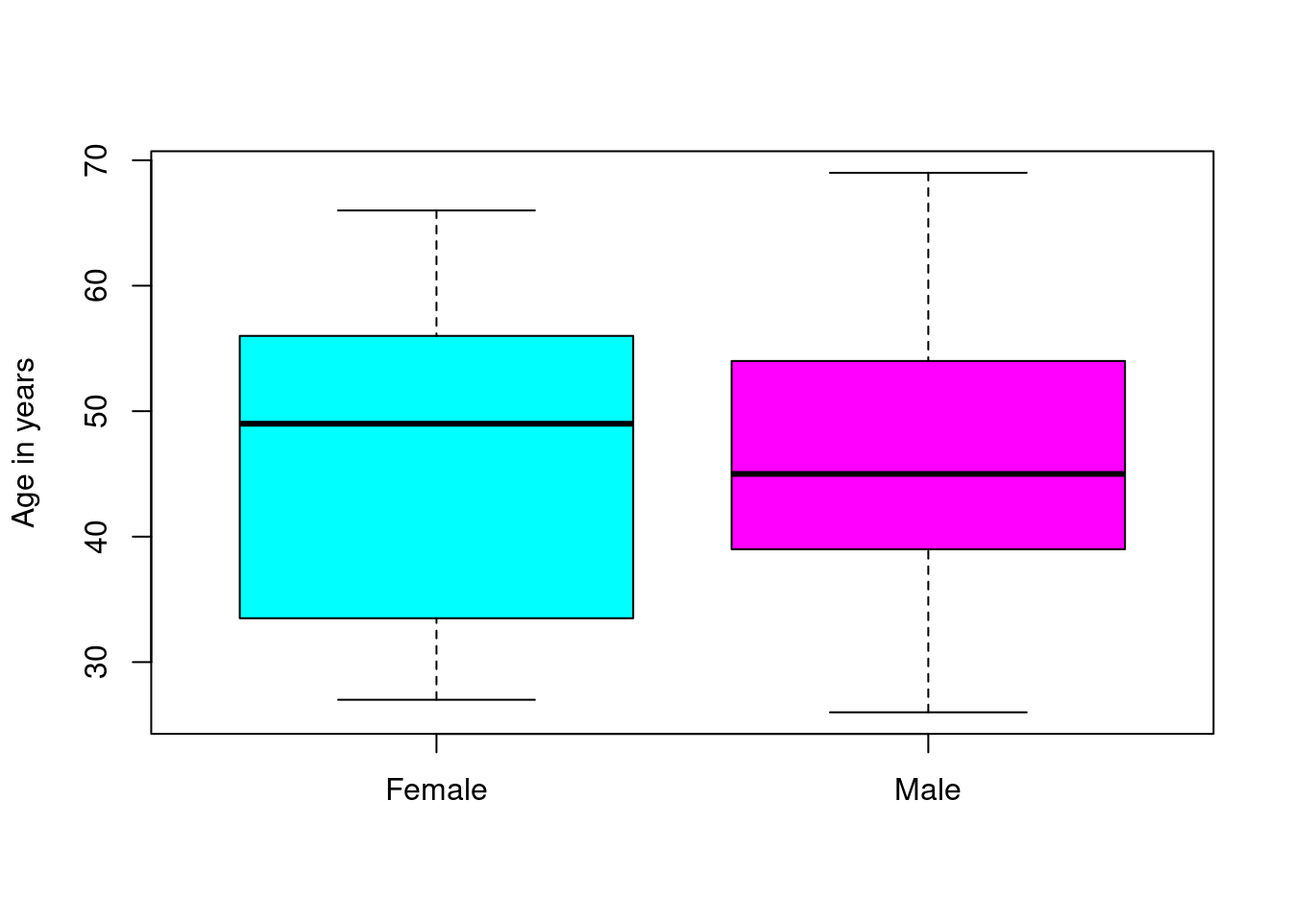
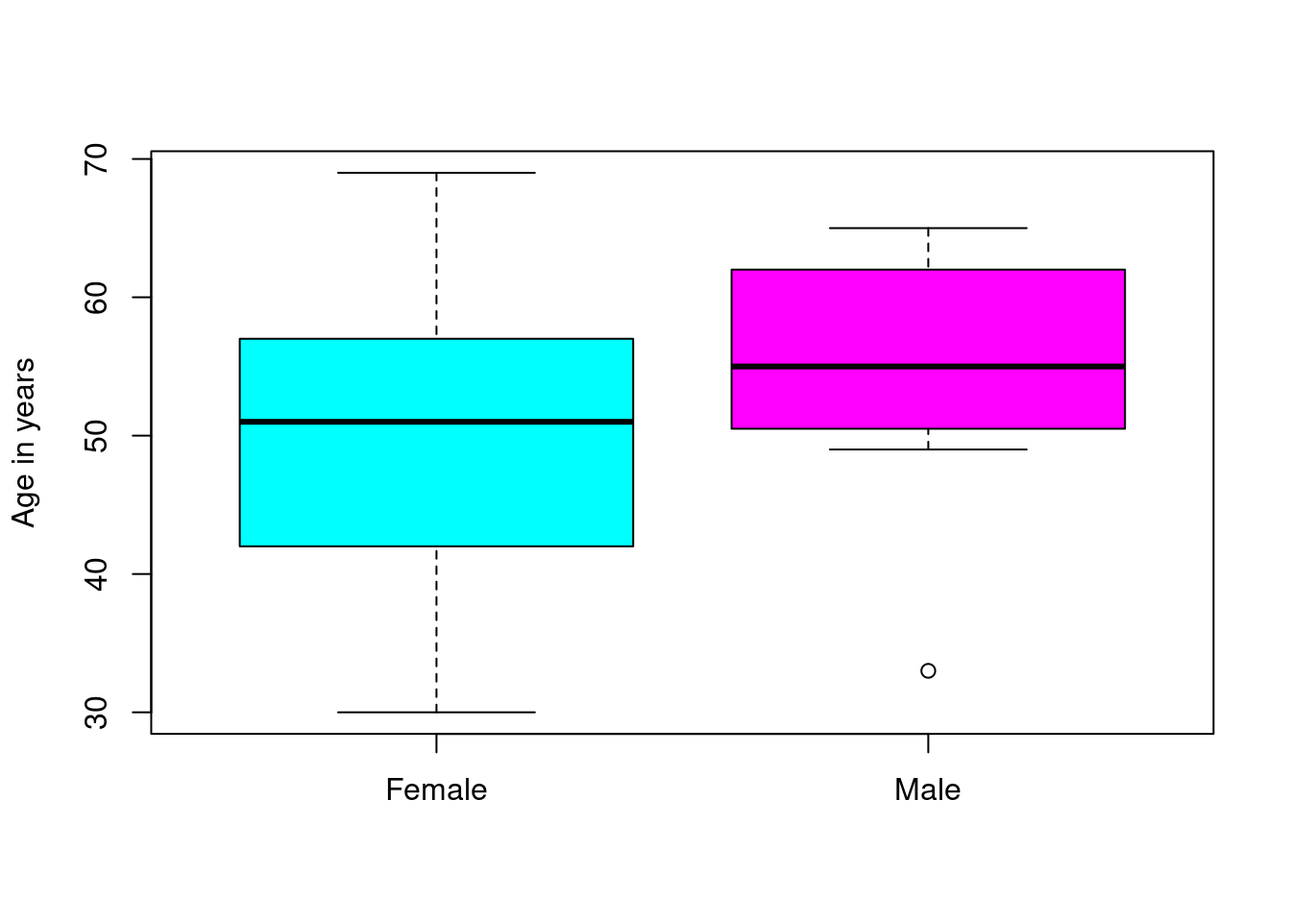
Rmd post update

diff --git a/content/post/2021-01-28-pxweb-kartalla/index.fi.html b/content/post/2021-01-28-pxweb-kartalla/index.fi.html
@@ -82,43 +82,52 @@ code span.wa { color: #8f5902; font-weight: bold; font-style: italic; } /* Warni
 
 <p>Kuulen usein vaikeuksista esittää Tilastokeskuksen <a href="https://pxnet2.stat.fi/PXWeb/pxweb/fi/StatFin/">PxWeb</a>-rajapinnan kautta jaettavia tilastoaineistoja kartalla. <a href="https://ropengov.github.io/">ropengov</a>-projektissa on kehitetty R-kielen työkaluja sekä <a href="https://cran.r-project.org/web/packages/pxweb/index.html">pxweb</a>-rajapinnan hyödyntämiseen että Tilastokeskuksen <a href="https://www.stat.fi/org/avoindata/paikkatietoaineistot.html">paikkatietorajapinnan</a> hyödyntämiseen (<a href="https://ropengov.github.io/geofi/">geofi</a>).</p>
 <p>Tässä esimerkissä näytetään miten teet karttoja R-ohjelmalla PxWeb-rajapinnan datoista sekä kunta- että postinumeroaluepohjaisten aluejakojen mukaisesti.</p>
+<p>Aluksi ladataan paketit sekä datojen hakemiseen, käsittelyyn että visualisointiin.</p>
+<div class="sourceCode" id="cb1"><pre class="sourceCode r"><code class="sourceCode r"><span id="cb1-1"><a href="#cb1-1" aria-hidden="true" tabindex="-1"></a><span class="co"># datat</span></span>
+<span id="cb1-2"><a href="#cb1-2" aria-hidden="true" tabindex="-1"></a><span class="fu">library</span>(pxweb) <span class="co"># Tilastokeskuksen pxweb-rajapinta</span></span>
+<span id="cb1-3"><a href="#cb1-3" aria-hidden="true" tabindex="-1"></a><span class="fu">library</span>(geofi) <span class="co"># Tilastokeskuksen wfs-rajapinta</span></span>
+<span id="cb1-4"><a href="#cb1-4" aria-hidden="true" tabindex="-1"></a><span class="co"># käsittely</span></span>
+<span id="cb1-5"><a href="#cb1-5" aria-hidden="true" tabindex="-1"></a><span class="fu">library</span>(dplyr) </span>
+<span id="cb1-6"><a href="#cb1-6" aria-hidden="true" tabindex="-1"></a><span class="fu">library</span>(tidyr)</span>
+<span id="cb1-7"><a href="#cb1-7" aria-hidden="true" tabindex="-1"></a><span class="co"># visualisointi</span></span>
+<span id="cb1-8"><a href="#cb1-8" aria-hidden="true" tabindex="-1"></a><span class="fu">library</span>(ggplot2)</span></code></pre></div>
 <div id="datan-hakeminen-tilastokeskuksen-pxweb-rajapinnasta" class="section level2">
 <h2>Datan hakeminen Tilastokeskuksen PxWeb-rajapinnasta</h2>
 </div>
 <div id="haetaan-kuntatason-taajama-aste-vuoden-2020-aluejaolla" class="section level1">
 <h1>Haetaan kuntatason taajama-aste vuoden 2020 aluejaolla</h1>
-<div class="sourceCode" id="cb1"><pre class="sourceCode r"><code class="sourceCode r"><span id="cb1-1"><a href="#cb1-1" aria-hidden="true" tabindex="-1"></a><span class="fu">library</span>(geofi)</span>
-<span id="cb1-2"><a href="#cb1-2" aria-hidden="true" tabindex="-1"></a><span class="fu">library</span>(dplyr)</span>
-<span id="cb1-3"><a href="#cb1-3" aria-hidden="true" tabindex="-1"></a><span class="fu">library</span>(tidyr)</span>
-<span id="cb1-4"><a href="#cb1-4" aria-hidden="true" tabindex="-1"></a></span>
-<span id="cb1-5"><a href="#cb1-5" aria-hidden="true" tabindex="-1"></a>municipalities17 <span class="ot">&lt;-</span> <span class="fu">get_municipalities</span>(<span class="at">year =</span> <span class="dv">2017</span>)</span>
-<span id="cb1-6"><a href="#cb1-6" aria-hidden="true" tabindex="-1"></a></span>
-<span id="cb1-7"><a href="#cb1-7" aria-hidden="true" tabindex="-1"></a><span class="co"># pull municipality data from Statistics Finland</span></span>
-<span id="cb1-8"><a href="#cb1-8" aria-hidden="true" tabindex="-1"></a><span class="fu">library</span>(pxweb)</span>
-<span id="cb1-9"><a href="#cb1-9" aria-hidden="true" tabindex="-1"></a>pxweb_query_list <span class="ot">&lt;-</span></span>
-<span id="cb1-10"><a href="#cb1-10" aria-hidden="true" tabindex="-1"></a>  <span class="fu">list</span>(<span class="st">&quot;Alue 2019&quot;</span><span class="ot">=</span><span class="fu">c</span>(<span class="st">&quot;*&quot;</span>),</span>
-<span id="cb1-11"><a href="#cb1-11" aria-hidden="true" tabindex="-1"></a>       <span class="st">&quot;Tiedot&quot;</span><span class="ot">=</span><span class="fu">c</span>(<span class="st">&quot;M408&quot;</span>,<span class="st">&quot;M411&quot;</span>,<span class="st">&quot;M476&quot;</span>,<span class="st">&quot;M391&quot;</span>,<span class="st">&quot;M421&quot;</span>,<span class="st">&quot;M478&quot;</span>,<span class="st">&quot;M404&quot;</span>,<span class="st">&quot;M410&quot;</span>,<span class="st">&quot;M303&quot;</span>,<span class="st">&quot;M297&quot;</span>,<span class="st">&quot;M302&quot;</span>,<span class="st">&quot;M44&quot;</span>,<span class="st">&quot;M62&quot;</span>,<span class="st">&quot;M70&quot;</span>,<span class="st">&quot;M488&quot;</span>,<span class="st">&quot;M486&quot;</span>,<span class="st">&quot;M137&quot;</span>,<span class="st">&quot;M140&quot;</span>,<span class="st">&quot;M130&quot;</span>,<span class="st">&quot;M162&quot;</span>,<span class="st">&quot;M78&quot;</span>,<span class="st">&quot;M485&quot;</span>,<span class="st">&quot;M152&quot;</span>,<span class="st">&quot;M72&quot;</span>,<span class="st">&quot;M84&quot;</span>,<span class="st">&quot;M106&quot;</span>,<span class="st">&quot;M151&quot;</span>,<span class="st">&quot;M499&quot;</span>,<span class="st">&quot;M496&quot;</span>,<span class="st">&quot;M495&quot;</span>,<span class="st">&quot;M497&quot;</span>,<span class="st">&quot;M498&quot;</span>),</span>
-<span id="cb1-12"><a href="#cb1-12" aria-hidden="true" tabindex="-1"></a>       <span class="st">&quot;Vuosi&quot;</span><span class="ot">=</span><span class="fu">c</span>(<span class="st">&quot;2017&quot;</span>))</span>
-<span id="cb1-13"><a href="#cb1-13" aria-hidden="true" tabindex="-1"></a></span>
-<span id="cb1-14"><a href="#cb1-14" aria-hidden="true" tabindex="-1"></a>px_data <span class="ot">&lt;-</span></span>
-<span id="cb1-15"><a href="#cb1-15" aria-hidden="true" tabindex="-1"></a>  <span class="fu">pxweb_get</span>(<span class="at">url =</span> <span class="st">&quot;http://pxnet2.stat.fi/PXWeb/api/v1/fi/Kuntien_avainluvut/2019/kuntien_avainluvut_2019_aikasarja.px&quot;</span>,</span>
-<span id="cb1-16"><a href="#cb1-16" aria-hidden="true" tabindex="-1"></a>            <span class="at">query =</span> pxweb_query_list)</span>
-<span id="cb1-17"><a href="#cb1-17" aria-hidden="true" tabindex="-1"></a></span>
-<span id="cb1-18"><a href="#cb1-18" aria-hidden="true" tabindex="-1"></a><span class="co"># Convert to data.frame</span></span>
-<span id="cb1-19"><a href="#cb1-19" aria-hidden="true" tabindex="-1"></a>tk_data <span class="ot">&lt;-</span> <span class="fu">as.data.frame</span>(px_data, <span class="at">column.name.type =</span> <span class="st">&quot;text&quot;</span>, <span class="at">variable.value.type =</span> <span class="st">&quot;text&quot;</span>)</span>
-<span id="cb1-20"><a href="#cb1-20" aria-hidden="true" tabindex="-1"></a>tk_data2 <span class="ot">&lt;-</span> tk_data <span class="sc">%&gt;%</span></span>
-<span id="cb1-21"><a href="#cb1-21" aria-hidden="true" tabindex="-1"></a>  <span class="fu">rename</span>(<span class="at">name =</span> <span class="st">`</span><span class="at">Alue 2019</span><span class="st">`</span>) <span class="sc">%&gt;%</span></span>
-<span id="cb1-22"><a href="#cb1-22" aria-hidden="true" tabindex="-1"></a>  <span class="fu">mutate</span>(<span class="at">name =</span> <span class="fu">as.character</span>(name),</span>
-<span id="cb1-23"><a href="#cb1-23" aria-hidden="true" tabindex="-1"></a>         <span class="co"># Paste Tiedot and Vuosi</span></span>
-<span id="cb1-24"><a href="#cb1-24" aria-hidden="true" tabindex="-1"></a>         <span class="at">Tiedot =</span> <span class="fu">paste</span>(Tiedot, Vuosi)) <span class="sc">%&gt;%</span></span>
-<span id="cb1-25"><a href="#cb1-25" aria-hidden="true" tabindex="-1"></a>  <span class="fu">select</span>(<span class="sc">-</span>Vuosi) <span class="sc">%&gt;%</span></span>
-<span id="cb1-26"><a href="#cb1-26" aria-hidden="true" tabindex="-1"></a>  <span class="fu">spread</span>(Tiedot, <span class="st">`</span><span class="at">Kuntien avainluvut</span><span class="st">`</span>) <span class="sc">%&gt;%</span></span>
-<span id="cb1-27"><a href="#cb1-27" aria-hidden="true" tabindex="-1"></a>  <span class="fu">as_tibble</span>()</span>
-<span id="cb1-28"><a href="#cb1-28" aria-hidden="true" tabindex="-1"></a>tk_data3 <span class="ot">&lt;-</span> janitor<span class="sc">::</span><span class="fu">clean_names</span>(tk_data2)</span>
-<span id="cb1-29"><a href="#cb1-29" aria-hidden="true" tabindex="-1"></a></span>
-<span id="cb1-30"><a href="#cb1-30" aria-hidden="true" tabindex="-1"></a><span class="co"># Join with Statistics Finland attribute data</span></span>
-<span id="cb1-31"><a href="#cb1-31" aria-hidden="true" tabindex="-1"></a>dat <span class="ot">&lt;-</span> <span class="fu">left_join</span>(municipalities17, tk_data3)</span>
-<span id="cb1-32"><a href="#cb1-32" aria-hidden="true" tabindex="-1"></a>dat[<span class="dv">1</span><span class="sc">:</span><span class="dv">10</span>,<span class="dv">1</span><span class="sc">:</span><span class="dv">10</span>]</span></code></pre></div>
+<div class="sourceCode" id="cb2"><pre class="sourceCode r"><code class="sourceCode r"><span id="cb2-1"><a href="#cb2-1" aria-hidden="true" tabindex="-1"></a><span class="fu">library</span>(geofi)</span>
+<span id="cb2-2"><a href="#cb2-2" aria-hidden="true" tabindex="-1"></a><span class="fu">library</span>(dplyr)</span>
+<span id="cb2-3"><a href="#cb2-3" aria-hidden="true" tabindex="-1"></a><span class="fu">library</span>(tidyr)</span>
+<span id="cb2-4"><a href="#cb2-4" aria-hidden="true" tabindex="-1"></a></span>
+<span id="cb2-5"><a href="#cb2-5" aria-hidden="true" tabindex="-1"></a>municipalities17 <span class="ot">&lt;-</span> <span class="fu">get_municipalities</span>(<span class="at">year =</span> <span class="dv">2017</span>)</span>
+<span id="cb2-6"><a href="#cb2-6" aria-hidden="true" tabindex="-1"></a></span>
+<span id="cb2-7"><a href="#cb2-7" aria-hidden="true" tabindex="-1"></a><span class="co"># pull municipality data from Statistics Finland</span></span>
+<span id="cb2-8"><a href="#cb2-8" aria-hidden="true" tabindex="-1"></a><span class="fu">library</span>(pxweb)</span>
+<span id="cb2-9"><a href="#cb2-9" aria-hidden="true" tabindex="-1"></a>pxweb_query_list <span class="ot">&lt;-</span></span>
+<span id="cb2-10"><a href="#cb2-10" aria-hidden="true" tabindex="-1"></a>  <span class="fu">list</span>(<span class="st">&quot;Alue 2019&quot;</span><span class="ot">=</span><span class="fu">c</span>(<span class="st">&quot;*&quot;</span>),</span>
+<span id="cb2-11"><a href="#cb2-11" aria-hidden="true" tabindex="-1"></a>       <span class="st">&quot;Tiedot&quot;</span><span class="ot">=</span><span class="fu">c</span>(<span class="st">&quot;M408&quot;</span>,<span class="st">&quot;M411&quot;</span>,<span class="st">&quot;M476&quot;</span>,<span class="st">&quot;M391&quot;</span>,<span class="st">&quot;M421&quot;</span>,<span class="st">&quot;M478&quot;</span>,<span class="st">&quot;M404&quot;</span>,<span class="st">&quot;M410&quot;</span>,<span class="st">&quot;M303&quot;</span>,<span class="st">&quot;M297&quot;</span>,<span class="st">&quot;M302&quot;</span>,<span class="st">&quot;M44&quot;</span>,<span class="st">&quot;M62&quot;</span>,<span class="st">&quot;M70&quot;</span>,<span class="st">&quot;M488&quot;</span>,<span class="st">&quot;M486&quot;</span>,<span class="st">&quot;M137&quot;</span>,<span class="st">&quot;M140&quot;</span>,<span class="st">&quot;M130&quot;</span>,<span class="st">&quot;M162&quot;</span>,<span class="st">&quot;M78&quot;</span>,<span class="st">&quot;M485&quot;</span>,<span class="st">&quot;M152&quot;</span>,<span class="st">&quot;M72&quot;</span>,<span class="st">&quot;M84&quot;</span>,<span class="st">&quot;M106&quot;</span>,<span class="st">&quot;M151&quot;</span>,<span class="st">&quot;M499&quot;</span>,<span class="st">&quot;M496&quot;</span>,<span class="st">&quot;M495&quot;</span>,<span class="st">&quot;M497&quot;</span>,<span class="st">&quot;M498&quot;</span>),</span>
+<span id="cb2-12"><a href="#cb2-12" aria-hidden="true" tabindex="-1"></a>       <span class="st">&quot;Vuosi&quot;</span><span class="ot">=</span><span class="fu">c</span>(<span class="st">&quot;2017&quot;</span>))</span>
+<span id="cb2-13"><a href="#cb2-13" aria-hidden="true" tabindex="-1"></a></span>
+<span id="cb2-14"><a href="#cb2-14" aria-hidden="true" tabindex="-1"></a>px_data <span class="ot">&lt;-</span></span>
+<span id="cb2-15"><a href="#cb2-15" aria-hidden="true" tabindex="-1"></a>  <span class="fu">pxweb_get</span>(<span class="at">url =</span> <span class="st">&quot;http://pxnet2.stat.fi/PXWeb/api/v1/fi/Kuntien_avainluvut/2019/kuntien_avainluvut_2019_aikasarja.px&quot;</span>,</span>
+<span id="cb2-16"><a href="#cb2-16" aria-hidden="true" tabindex="-1"></a>            <span class="at">query =</span> pxweb_query_list)</span>
+<span id="cb2-17"><a href="#cb2-17" aria-hidden="true" tabindex="-1"></a></span>
+<span id="cb2-18"><a href="#cb2-18" aria-hidden="true" tabindex="-1"></a><span class="co"># Convert to data.frame</span></span>
+<span id="cb2-19"><a href="#cb2-19" aria-hidden="true" tabindex="-1"></a>tk_data <span class="ot">&lt;-</span> <span class="fu">as.data.frame</span>(px_data, <span class="at">column.name.type =</span> <span class="st">&quot;text&quot;</span>, <span class="at">variable.value.type =</span> <span class="st">&quot;text&quot;</span>)</span>
+<span id="cb2-20"><a href="#cb2-20" aria-hidden="true" tabindex="-1"></a>tk_data2 <span class="ot">&lt;-</span> tk_data <span class="sc">%&gt;%</span></span>
+<span id="cb2-21"><a href="#cb2-21" aria-hidden="true" tabindex="-1"></a>  <span class="fu">rename</span>(<span class="at">name =</span> <span class="st">`</span><span class="at">Alue 2019</span><span class="st">`</span>) <span class="sc">%&gt;%</span></span>
+<span id="cb2-22"><a href="#cb2-22" aria-hidden="true" tabindex="-1"></a>  <span class="fu">mutate</span>(<span class="at">name =</span> <span class="fu">as.character</span>(name),</span>
+<span id="cb2-23"><a href="#cb2-23" aria-hidden="true" tabindex="-1"></a>         <span class="co"># Paste Tiedot and Vuosi</span></span>
+<span id="cb2-24"><a href="#cb2-24" aria-hidden="true" tabindex="-1"></a>         <span class="at">Tiedot =</span> <span class="fu">paste</span>(Tiedot, Vuosi)) <span class="sc">%&gt;%</span></span>
+<span id="cb2-25"><a href="#cb2-25" aria-hidden="true" tabindex="-1"></a>  <span class="fu">select</span>(<span class="sc">-</span>Vuosi) <span class="sc">%&gt;%</span></span>
+<span id="cb2-26"><a href="#cb2-26" aria-hidden="true" tabindex="-1"></a>  <span class="fu">spread</span>(Tiedot, <span class="st">`</span><span class="at">Kuntien avainluvut</span><span class="st">`</span>) <span class="sc">%&gt;%</span></span>
+<span id="cb2-27"><a href="#cb2-27" aria-hidden="true" tabindex="-1"></a>  <span class="fu">as_tibble</span>()</span>
+<span id="cb2-28"><a href="#cb2-28" aria-hidden="true" tabindex="-1"></a>tk_data3 <span class="ot">&lt;-</span> janitor<span class="sc">::</span><span class="fu">clean_names</span>(tk_data2)</span>
+<span id="cb2-29"><a href="#cb2-29" aria-hidden="true" tabindex="-1"></a></span>
+<span id="cb2-30"><a href="#cb2-30" aria-hidden="true" tabindex="-1"></a><span class="co"># Join with Statistics Finland attribute data</span></span>
+<span id="cb2-31"><a href="#cb2-31" aria-hidden="true" tabindex="-1"></a>dat <span class="ot">&lt;-</span> <span class="fu">left_join</span>(municipalities17, tk_data3)</span>
+<span id="cb2-32"><a href="#cb2-32" aria-hidden="true" tabindex="-1"></a>dat[<span class="dv">1</span><span class="sc">:</span><span class="dv">10</span>,<span class="dv">1</span><span class="sc">:</span><span class="dv">10</span>]</span></code></pre></div>
 <pre class="img-fluid"><code>## Simple feature collection with 10 features and 10 fields
 ## geometry type:  MULTIPOLYGON
 ## dimension:      XY
@@ -159,78 +168,78 @@ code span.wa { color: #8f5902; font-weight: bold; font-style: italic; } /* Warni
 ## 10                  3 MULTIPOLYGON (((598384.5 68...</code></pre>
 <div id="aggregating-municipality-level-data-using-internal-municipality_key-files" class="section level2">
 <h2>Aggregating municipality level data using internal municipality_key-files</h2>
-<div class="sourceCode" id="cb3"><pre class="sourceCode r"><code class="sourceCode r"><span id="cb3-1"><a href="#cb3-1" aria-hidden="true" tabindex="-1"></a><span class="co"># Lets aggregate at maakunta level using column mk_name</span></span>
-<span id="cb3-2"><a href="#cb3-2" aria-hidden="true" tabindex="-1"></a>mk_data <span class="ot">&lt;-</span> dat <span class="sc">%&gt;%</span> </span>
-<span id="cb3-3"><a href="#cb3-3" aria-hidden="true" tabindex="-1"></a>  <span class="fu">group_by</span>(maakunta_name_fi,maakunta_code) <span class="sc">%&gt;%</span> </span>
-<span id="cb3-4"><a href="#cb3-4" aria-hidden="true" tabindex="-1"></a>  <span class="co"># And compute population at maakunta level</span></span>
-<span id="cb3-5"><a href="#cb3-5" aria-hidden="true" tabindex="-1"></a>  <span class="fu">summarise</span>(<span class="at">vakiluku_2017 =</span> <span class="fu">sum</span>(vakiluku_2017))</span>
-<span id="cb3-6"><a href="#cb3-6" aria-hidden="true" tabindex="-1"></a></span>
-<span id="cb3-7"><a href="#cb3-7" aria-hidden="true" tabindex="-1"></a><span class="fu">ggplot</span>(mk_data) <span class="sc">+</span> </span>
-<span id="cb3-8"><a href="#cb3-8" aria-hidden="true" tabindex="-1"></a>  <span class="fu">geom_sf</span>(<span class="fu">aes</span>(<span class="at">fill =</span> vakiluku_2017)) <span class="sc">+</span></span>
-<span id="cb3-9"><a href="#cb3-9" aria-hidden="true" tabindex="-1"></a>  <span class="fu">geom_sf_text</span>(<span class="fu">aes</span>(<span class="at">label =</span> <span class="fu">paste</span>(maakunta_name_fi, <span class="st">&quot;</span><span class="sc">\n</span><span class="st">&quot;</span>,vakiluku_2017)), </span>
-<span id="cb3-10"><a href="#cb3-10" aria-hidden="true" tabindex="-1"></a>               <span class="at">size =</span> <span class="dv">3</span>, </span>
-<span id="cb3-11"><a href="#cb3-11" aria-hidden="true" tabindex="-1"></a>               <span class="at">color =</span> <span class="st">&quot;white&quot;</span>)</span></code></pre></div>
+<div class="sourceCode" id="cb4"><pre class="sourceCode r"><code class="sourceCode r"><span id="cb4-1"><a href="#cb4-1" aria-hidden="true" tabindex="-1"></a><span class="co"># Lets aggregate at maakunta level using column mk_name</span></span>
+<span id="cb4-2"><a href="#cb4-2" aria-hidden="true" tabindex="-1"></a>mk_data <span class="ot">&lt;-</span> dat <span class="sc">%&gt;%</span> </span>
+<span id="cb4-3"><a href="#cb4-3" aria-hidden="true" tabindex="-1"></a>  <span class="fu">group_by</span>(maakunta_name_fi,maakunta_code) <span class="sc">%&gt;%</span> </span>
+<span id="cb4-4"><a href="#cb4-4" aria-hidden="true" tabindex="-1"></a>  <span class="co"># And compute population at maakunta level</span></span>
+<span id="cb4-5"><a href="#cb4-5" aria-hidden="true" tabindex="-1"></a>  <span class="fu">summarise</span>(<span class="at">vakiluku_2017 =</span> <span class="fu">sum</span>(vakiluku_2017))</span>
+<span id="cb4-6"><a href="#cb4-6" aria-hidden="true" tabindex="-1"></a></span>
+<span id="cb4-7"><a href="#cb4-7" aria-hidden="true" tabindex="-1"></a><span class="fu">ggplot</span>(mk_data) <span class="sc">+</span> </span>
+<span id="cb4-8"><a href="#cb4-8" aria-hidden="true" tabindex="-1"></a>  <span class="fu">geom_sf</span>(<span class="fu">aes</span>(<span class="at">fill =</span> vakiluku_2017)) <span class="sc">+</span></span>
+<span id="cb4-9"><a href="#cb4-9" aria-hidden="true" tabindex="-1"></a>  <span class="fu">geom_sf_text</span>(<span class="fu">aes</span>(<span class="at">label =</span> <span class="fu">paste</span>(maakunta_name_fi, <span class="st">&quot;</span><span class="sc">\n</span><span class="st">&quot;</span>,vakiluku_2017)), </span>
+<span id="cb4-10"><a href="#cb4-10" aria-hidden="true" tabindex="-1"></a>               <span class="at">size =</span> <span class="dv">3</span>, </span>
+<span id="cb4-11"><a href="#cb4-11" aria-hidden="true" tabindex="-1"></a>               <span class="at">color =</span> <span class="st">&quot;white&quot;</span>)</span></code></pre></div>
 <p><img src="{{< blogdown/postref >}}index.fi_files/figure-html/municipalities_map-1.png" width="900" /></p>
 <p>Or if you prefer aggregating at seutukunta-level you can</p>
-<div class="sourceCode" id="cb4"><pre class="sourceCode r"><code class="sourceCode r"><span id="cb4-1"><a href="#cb4-1" aria-hidden="true" tabindex="-1"></a>mk_data <span class="ot">&lt;-</span> dat <span class="sc">%&gt;%</span> </span>
-<span id="cb4-2"><a href="#cb4-2" aria-hidden="true" tabindex="-1"></a>  <span class="fu">group_by</span>(seutukunta_code,seutukunta_name_fi) <span class="sc">%&gt;%</span> </span>
-<span id="cb4-3"><a href="#cb4-3" aria-hidden="true" tabindex="-1"></a>  <span class="co"># And compute population at maakunta level</span></span>
-<span id="cb4-4"><a href="#cb4-4" aria-hidden="true" tabindex="-1"></a>  <span class="fu">summarise</span>(<span class="at">vakiluku_2017 =</span> <span class="fu">sum</span>(vakiluku_2017))</span>
-<span id="cb4-5"><a href="#cb4-5" aria-hidden="true" tabindex="-1"></a></span>
-<span id="cb4-6"><a href="#cb4-6" aria-hidden="true" tabindex="-1"></a><span class="fu">ggplot</span>(mk_data) <span class="sc">+</span> </span>
-<span id="cb4-7"><a href="#cb4-7" aria-hidden="true" tabindex="-1"></a>  <span class="fu">geom_sf</span>(<span class="fu">aes</span>(<span class="at">fill =</span> vakiluku_2017)) <span class="sc">+</span></span>
-<span id="cb4-8"><a href="#cb4-8" aria-hidden="true" tabindex="-1"></a>  <span class="fu">geom_sf_text</span>(<span class="fu">aes</span>(<span class="at">label =</span> <span class="fu">paste</span>(seutukunta_name_fi, <span class="st">&quot;</span><span class="sc">\n</span><span class="st">&quot;</span>,vakiluku_2017)), </span>
-<span id="cb4-9"><a href="#cb4-9" aria-hidden="true" tabindex="-1"></a>               <span class="at">size =</span> <span class="dv">3</span>, </span>
-<span id="cb4-10"><a href="#cb4-10" aria-hidden="true" tabindex="-1"></a>               <span class="at">color =</span> <span class="st">&quot;white&quot;</span>)</span></code></pre></div>
+<div class="sourceCode" id="cb5"><pre class="sourceCode r"><code class="sourceCode r"><span id="cb5-1"><a href="#cb5-1" aria-hidden="true" tabindex="-1"></a>mk_data <span class="ot">&lt;-</span> dat <span class="sc">%&gt;%</span> </span>
+<span id="cb5-2"><a href="#cb5-2" aria-hidden="true" tabindex="-1"></a>  <span class="fu">group_by</span>(seutukunta_code,seutukunta_name_fi) <span class="sc">%&gt;%</span> </span>
+<span id="cb5-3"><a href="#cb5-3" aria-hidden="true" tabindex="-1"></a>  <span class="co"># And compute population at maakunta level</span></span>
+<span id="cb5-4"><a href="#cb5-4" aria-hidden="true" tabindex="-1"></a>  <span class="fu">summarise</span>(<span class="at">vakiluku_2017 =</span> <span class="fu">sum</span>(vakiluku_2017))</span>
+<span id="cb5-5"><a href="#cb5-5" aria-hidden="true" tabindex="-1"></a></span>
+<span id="cb5-6"><a href="#cb5-6" aria-hidden="true" tabindex="-1"></a><span class="fu">ggplot</span>(mk_data) <span class="sc">+</span> </span>
+<span id="cb5-7"><a href="#cb5-7" aria-hidden="true" tabindex="-1"></a>  <span class="fu">geom_sf</span>(<span class="fu">aes</span>(<span class="at">fill =</span> vakiluku_2017)) <span class="sc">+</span></span>
+<span id="cb5-8"><a href="#cb5-8" aria-hidden="true" tabindex="-1"></a>  <span class="fu">geom_sf_text</span>(<span class="fu">aes</span>(<span class="at">label =</span> <span class="fu">paste</span>(seutukunta_name_fi, <span class="st">&quot;</span><span class="sc">\n</span><span class="st">&quot;</span>,vakiluku_2017)), </span>
+<span id="cb5-9"><a href="#cb5-9" aria-hidden="true" tabindex="-1"></a>               <span class="at">size =</span> <span class="dv">3</span>, </span>
+<span id="cb5-10"><a href="#cb5-10" aria-hidden="true" tabindex="-1"></a>               <span class="at">color =</span> <span class="st">&quot;white&quot;</span>)</span></code></pre></div>
 <p><img src="{{< blogdown/postref >}}index.fi_files/figure-html/vaalipiiri_map-1.png" width="900" /></p>
 <p>Or if you want the population at the national level aggregated up from municipality level you can:</p>
-<div class="sourceCode" id="cb5"><pre class="sourceCode r"><code class="sourceCode r"><span id="cb5-1"><a href="#cb5-1" aria-hidden="true" tabindex="-1"></a>mk_data <span class="ot">&lt;-</span> dat <span class="sc">%&gt;%</span> </span>
-<span id="cb5-2"><a href="#cb5-2" aria-hidden="true" tabindex="-1"></a>  <span class="fu">summarise</span>(<span class="at">vakiluku_2017 =</span> <span class="fu">sum</span>(vakiluku_2017))</span>
-<span id="cb5-3"><a href="#cb5-3" aria-hidden="true" tabindex="-1"></a></span>
-<span id="cb5-4"><a href="#cb5-4" aria-hidden="true" tabindex="-1"></a><span class="fu">ggplot</span>(mk_data) <span class="sc">+</span> </span>
-<span id="cb5-5"><a href="#cb5-5" aria-hidden="true" tabindex="-1"></a>  <span class="fu">geom_sf</span>(<span class="fu">aes</span>(<span class="at">fill =</span> vakiluku_2017)) <span class="sc">+</span></span>
-<span id="cb5-6"><a href="#cb5-6" aria-hidden="true" tabindex="-1"></a>  <span class="fu">geom_sf_text</span>(<span class="fu">aes</span>(<span class="at">label =</span> vakiluku_2017), </span>
-<span id="cb5-7"><a href="#cb5-7" aria-hidden="true" tabindex="-1"></a>               <span class="at">size =</span> <span class="dv">3</span>, </span>
-<span id="cb5-8"><a href="#cb5-8" aria-hidden="true" tabindex="-1"></a>               <span class="at">color =</span> <span class="st">&quot;white&quot;</span>)</span></code></pre></div>
+<div class="sourceCode" id="cb6"><pre class="sourceCode r"><code class="sourceCode r"><span id="cb6-1"><a href="#cb6-1" aria-hidden="true" tabindex="-1"></a>mk_data <span class="ot">&lt;-</span> dat <span class="sc">%&gt;%</span> </span>
+<span id="cb6-2"><a href="#cb6-2" aria-hidden="true" tabindex="-1"></a>  <span class="fu">summarise</span>(<span class="at">vakiluku_2017 =</span> <span class="fu">sum</span>(vakiluku_2017))</span>
+<span id="cb6-3"><a href="#cb6-3" aria-hidden="true" tabindex="-1"></a></span>
+<span id="cb6-4"><a href="#cb6-4" aria-hidden="true" tabindex="-1"></a><span class="fu">ggplot</span>(mk_data) <span class="sc">+</span> </span>
+<span id="cb6-5"><a href="#cb6-5" aria-hidden="true" tabindex="-1"></a>  <span class="fu">geom_sf</span>(<span class="fu">aes</span>(<span class="at">fill =</span> vakiluku_2017)) <span class="sc">+</span></span>
+<span id="cb6-6"><a href="#cb6-6" aria-hidden="true" tabindex="-1"></a>  <span class="fu">geom_sf_text</span>(<span class="fu">aes</span>(<span class="at">label =</span> vakiluku_2017), </span>
+<span id="cb6-7"><a href="#cb6-7" aria-hidden="true" tabindex="-1"></a>               <span class="at">size =</span> <span class="dv">3</span>, </span>
+<span id="cb6-8"><a href="#cb6-8" aria-hidden="true" tabindex="-1"></a>               <span class="at">color =</span> <span class="st">&quot;white&quot;</span>)</span></code></pre></div>
 <p><img src="{{< blogdown/postref >}}index.fi_files/figure-html/national_map-1.png" width="900" /></p>
 </div>
 <div id="postinumeroalueittain" class="section level2">
 <h2>Postinumeroalueittain</h2>
-<div class="sourceCode" id="cb6"><pre class="sourceCode r"><code class="sourceCode r"><span id="cb6-1"><a href="#cb6-1" aria-hidden="true" tabindex="-1"></a>zipcodes <span class="ot">&lt;-</span> <span class="fu">get_zipcodes</span>(<span class="at">year =</span> <span class="dv">2020</span>) </span>
-<span id="cb6-2"><a href="#cb6-2" aria-hidden="true" tabindex="-1"></a><span class="fu">ggplot</span>(zipcodes) <span class="sc">+</span> </span>
-<span id="cb6-3"><a href="#cb6-3" aria-hidden="true" tabindex="-1"></a>  <span class="fu">geom_sf</span>(<span class="fu">aes</span>(<span class="at">fill =</span> <span class="fu">as.integer</span>(posti_alue)))</span></code></pre></div>
+<div class="sourceCode" id="cb7"><pre class="sourceCode r"><code class="sourceCode r"><span id="cb7-1"><a href="#cb7-1" aria-hidden="true" tabindex="-1"></a>zipcodes <span class="ot">&lt;-</span> <span class="fu">get_zipcodes</span>(<span class="at">year =</span> <span class="dv">2020</span>) </span>
+<span id="cb7-2"><a href="#cb7-2" aria-hidden="true" tabindex="-1"></a><span class="fu">ggplot</span>(zipcodes) <span class="sc">+</span> </span>
+<span id="cb7-3"><a href="#cb7-3" aria-hidden="true" tabindex="-1"></a>  <span class="fu">geom_sf</span>(<span class="fu">aes</span>(<span class="at">fill =</span> <span class="fu">as.integer</span>(posti_alue)))</span></code></pre></div>
 <p><img src="{{< blogdown/postref >}}index.fi_files/figure-html/zipcode_map-1.png" width="900" /></p>
 <p>You can add variables from Paavo data (Statistics Finland) in following manner.</p>
-<div class="sourceCode" id="cb7"><pre class="sourceCode r"><code class="sourceCode r"><span id="cb7-1"><a href="#cb7-1" aria-hidden="true" tabindex="-1"></a><span class="fu">library</span>(pxweb)</span>
-<span id="cb7-2"><a href="#cb7-2" aria-hidden="true" tabindex="-1"></a><span class="co"># lets get all zipcodes and all variables</span></span>
-<span id="cb7-3"><a href="#cb7-3" aria-hidden="true" tabindex="-1"></a>pxweb_query_list <span class="ot">&lt;-</span> </span>
-<span id="cb7-4"><a href="#cb7-4" aria-hidden="true" tabindex="-1"></a>  <span class="fu">list</span>(<span class="st">&quot;Postinumeroalue&quot;</span><span class="ot">=</span><span class="fu">c</span>(<span class="st">&quot;*&quot;</span>),</span>
-<span id="cb7-5"><a href="#cb7-5" aria-hidden="true" tabindex="-1"></a>                           <span class="st">&quot;Tiedot&quot;</span><span class="ot">=</span><span class="fu">c</span>(<span class="st">&quot;*&quot;</span>))</span>
-<span id="cb7-6"><a href="#cb7-6" aria-hidden="true" tabindex="-1"></a></span>
-<span id="cb7-7"><a href="#cb7-7" aria-hidden="true" tabindex="-1"></a><span class="co"># Download data </span></span>
-<span id="cb7-8"><a href="#cb7-8" aria-hidden="true" tabindex="-1"></a>px_data <span class="ot">&lt;-</span> </span>
-<span id="cb7-9"><a href="#cb7-9" aria-hidden="true" tabindex="-1"></a> <span class="fu">pxweb_get</span>(<span class="at">url =</span> <span class="st">&quot;http://pxnet2.stat.fi/PXWeb/api/v1/fi/Postinumeroalueittainen_avoin_tieto/2019/paavo_1_he_2019.px&quot;</span>,</span>
-<span id="cb7-10"><a href="#cb7-10" aria-hidden="true" tabindex="-1"></a>           <span class="at">query =</span> pxweb_query_list)</span>
-<span id="cb7-11"><a href="#cb7-11" aria-hidden="true" tabindex="-1"></a></span>
-<span id="cb7-12"><a href="#cb7-12" aria-hidden="true" tabindex="-1"></a><span class="co"># Convert to data.frame </span></span>
-<span id="cb7-13"><a href="#cb7-13" aria-hidden="true" tabindex="-1"></a>tk_data_zip <span class="ot">&lt;-</span> <span class="fu">as.data.frame</span>(px_data, <span class="at">column.name.type =</span> <span class="st">&quot;text&quot;</span>, <span class="at">variable.value.type =</span> <span class="st">&quot;text&quot;</span>)</span>
-<span id="cb7-14"><a href="#cb7-14" aria-hidden="true" tabindex="-1"></a></span>
-<span id="cb7-15"><a href="#cb7-15" aria-hidden="true" tabindex="-1"></a><span class="fu">library</span>(dplyr)</span>
-<span id="cb7-16"><a href="#cb7-16" aria-hidden="true" tabindex="-1"></a><span class="fu">library</span>(tidyr)</span>
-<span id="cb7-17"><a href="#cb7-17" aria-hidden="true" tabindex="-1"></a>tk_data_zip2 <span class="ot">&lt;-</span> tk_data_zip <span class="sc">%&gt;%</span></span>
-<span id="cb7-18"><a href="#cb7-18" aria-hidden="true" tabindex="-1"></a>  <span class="fu">as_tibble</span>() <span class="sc">%&gt;%</span> </span>
-<span id="cb7-19"><a href="#cb7-19" aria-hidden="true" tabindex="-1"></a>  <span class="fu">setNames</span>(<span class="fu">c</span>(<span class="st">&quot;region&quot;</span>,<span class="st">&quot;indicator&quot;</span>,<span class="st">&quot;value&quot;</span>)) <span class="sc">%&gt;%</span> </span>
-<span id="cb7-20"><a href="#cb7-20" aria-hidden="true" tabindex="-1"></a>  <span class="fu">spread</span>(indicator, value)</span>
-<span id="cb7-21"><a href="#cb7-21" aria-hidden="true" tabindex="-1"></a>tk_zipdata <span class="ot">&lt;-</span> janitor<span class="sc">::</span><span class="fu">clean_names</span>(tk_data_zip2)</span>
-<span id="cb7-22"><a href="#cb7-22" aria-hidden="true" tabindex="-1"></a>tk_zipdata<span class="sc">$</span>zipcode <span class="ot">&lt;-</span> <span class="fu">substr</span>(<span class="at">x =</span> tk_zipdata<span class="sc">$</span>region, <span class="at">start =</span> <span class="dv">1</span>, <span class="at">stop =</span> <span class="dv">5</span>)</span>
-<span id="cb7-23"><a href="#cb7-23" aria-hidden="true" tabindex="-1"></a>tk_zipdata<span class="sc">$</span>zipname <span class="ot">&lt;-</span> <span class="fu">gsub</span>(<span class="st">&quot;^.{6}&quot;</span>, <span class="st">&quot;&quot;</span>, tk_zipdata<span class="sc">$</span>region)</span>
-<span id="cb7-24"><a href="#cb7-24" aria-hidden="true" tabindex="-1"></a></span>
-<span id="cb7-25"><a href="#cb7-25" aria-hidden="true" tabindex="-1"></a></span>
-<span id="cb7-26"><a href="#cb7-26" aria-hidden="true" tabindex="-1"></a><span class="co"># Lets join with spatial data and plot the area of each zipcode</span></span>
-<span id="cb7-27"><a href="#cb7-27" aria-hidden="true" tabindex="-1"></a>zipcodes19 <span class="ot">&lt;-</span> <span class="fu">get_zipcodes</span>(<span class="at">year =</span> <span class="dv">2019</span>) </span>
-<span id="cb7-28"><a href="#cb7-28" aria-hidden="true" tabindex="-1"></a>zipcodes_new <span class="ot">&lt;-</span> <span class="fu">left_join</span>(zipcodes19, tk_zipdata, <span class="at">by =</span> <span class="fu">c</span>(<span class="st">&quot;posti_alue&quot;</span> <span class="ot">=</span> <span class="st">&quot;zipcode&quot;</span>))</span>
-<span id="cb7-29"><a href="#cb7-29" aria-hidden="true" tabindex="-1"></a><span class="fu">ggplot</span>(zipcodes_new) <span class="sc">+</span> </span>
-<span id="cb7-30"><a href="#cb7-30" aria-hidden="true" tabindex="-1"></a>  <span class="fu">geom_sf</span>(<span class="fu">aes</span>(<span class="at">fill =</span> pinta_ala), <span class="at">color =</span> <span class="fu">alpha</span>(<span class="st">&quot;white&quot;</span>, <span class="dv">1</span><span class="sc">/</span><span class="dv">3</span>))</span></code></pre></div>
+<div class="sourceCode" id="cb8"><pre class="sourceCode r"><code class="sourceCode r"><span id="cb8-1"><a href="#cb8-1" aria-hidden="true" tabindex="-1"></a><span class="fu">library</span>(pxweb)</span>
+<span id="cb8-2"><a href="#cb8-2" aria-hidden="true" tabindex="-1"></a><span class="co"># lets get all zipcodes and all variables</span></span>
+<span id="cb8-3"><a href="#cb8-3" aria-hidden="true" tabindex="-1"></a>pxweb_query_list <span class="ot">&lt;-</span> </span>
+<span id="cb8-4"><a href="#cb8-4" aria-hidden="true" tabindex="-1"></a>  <span class="fu">list</span>(<span class="st">&quot;Postinumeroalue&quot;</span><span class="ot">=</span><span class="fu">c</span>(<span class="st">&quot;*&quot;</span>),</span>
+<span id="cb8-5"><a href="#cb8-5" aria-hidden="true" tabindex="-1"></a>                           <span class="st">&quot;Tiedot&quot;</span><span class="ot">=</span><span class="fu">c</span>(<span class="st">&quot;*&quot;</span>))</span>
+<span id="cb8-6"><a href="#cb8-6" aria-hidden="true" tabindex="-1"></a></span>
+<span id="cb8-7"><a href="#cb8-7" aria-hidden="true" tabindex="-1"></a><span class="co"># Download data </span></span>
+<span id="cb8-8"><a href="#cb8-8" aria-hidden="true" tabindex="-1"></a>px_data <span class="ot">&lt;-</span> </span>
+<span id="cb8-9"><a href="#cb8-9" aria-hidden="true" tabindex="-1"></a> <span class="fu">pxweb_get</span>(<span class="at">url =</span> <span class="st">&quot;http://pxnet2.stat.fi/PXWeb/api/v1/fi/Postinumeroalueittainen_avoin_tieto/2019/paavo_1_he_2019.px&quot;</span>,</span>
+<span id="cb8-10"><a href="#cb8-10" aria-hidden="true" tabindex="-1"></a>           <span class="at">query =</span> pxweb_query_list)</span>
+<span id="cb8-11"><a href="#cb8-11" aria-hidden="true" tabindex="-1"></a></span>
+<span id="cb8-12"><a href="#cb8-12" aria-hidden="true" tabindex="-1"></a><span class="co"># Convert to data.frame </span></span>
+<span id="cb8-13"><a href="#cb8-13" aria-hidden="true" tabindex="-1"></a>tk_data_zip <span class="ot">&lt;-</span> <span class="fu">as.data.frame</span>(px_data, <span class="at">column.name.type =</span> <span class="st">&quot;text&quot;</span>, <span class="at">variable.value.type =</span> <span class="st">&quot;text&quot;</span>)</span>
+<span id="cb8-14"><a href="#cb8-14" aria-hidden="true" tabindex="-1"></a></span>
+<span id="cb8-15"><a href="#cb8-15" aria-hidden="true" tabindex="-1"></a><span class="fu">library</span>(dplyr)</span>
+<span id="cb8-16"><a href="#cb8-16" aria-hidden="true" tabindex="-1"></a><span class="fu">library</span>(tidyr)</span>
+<span id="cb8-17"><a href="#cb8-17" aria-hidden="true" tabindex="-1"></a>tk_data_zip2 <span class="ot">&lt;-</span> tk_data_zip <span class="sc">%&gt;%</span></span>
+<span id="cb8-18"><a href="#cb8-18" aria-hidden="true" tabindex="-1"></a>  <span class="fu">as_tibble</span>() <span class="sc">%&gt;%</span> </span>
+<span id="cb8-19"><a href="#cb8-19" aria-hidden="true" tabindex="-1"></a>  <span class="fu">setNames</span>(<span class="fu">c</span>(<span class="st">&quot;region&quot;</span>,<span class="st">&quot;indicator&quot;</span>,<span class="st">&quot;value&quot;</span>)) <span class="sc">%&gt;%</span> </span>
+<span id="cb8-20"><a href="#cb8-20" aria-hidden="true" tabindex="-1"></a>  <span class="fu">spread</span>(indicator, value)</span>
+<span id="cb8-21"><a href="#cb8-21" aria-hidden="true" tabindex="-1"></a>tk_zipdata <span class="ot">&lt;-</span> janitor<span class="sc">::</span><span class="fu">clean_names</span>(tk_data_zip2)</span>
+<span id="cb8-22"><a href="#cb8-22" aria-hidden="true" tabindex="-1"></a>tk_zipdata<span class="sc">$</span>zipcode <span class="ot">&lt;-</span> <span class="fu">substr</span>(<span class="at">x =</span> tk_zipdata<span class="sc">$</span>region, <span class="at">start =</span> <span class="dv">1</span>, <span class="at">stop =</span> <span class="dv">5</span>)</span>
+<span id="cb8-23"><a href="#cb8-23" aria-hidden="true" tabindex="-1"></a>tk_zipdata<span class="sc">$</span>zipname <span class="ot">&lt;-</span> <span class="fu">gsub</span>(<span class="st">&quot;^.{6}&quot;</span>, <span class="st">&quot;&quot;</span>, tk_zipdata<span class="sc">$</span>region)</span>
+<span id="cb8-24"><a href="#cb8-24" aria-hidden="true" tabindex="-1"></a></span>
+<span id="cb8-25"><a href="#cb8-25" aria-hidden="true" tabindex="-1"></a></span>
+<span id="cb8-26"><a href="#cb8-26" aria-hidden="true" tabindex="-1"></a><span class="co"># Lets join with spatial data and plot the area of each zipcode</span></span>
+<span id="cb8-27"><a href="#cb8-27" aria-hidden="true" tabindex="-1"></a>zipcodes19 <span class="ot">&lt;-</span> <span class="fu">get_zipcodes</span>(<span class="at">year =</span> <span class="dv">2019</span>) </span>
+<span id="cb8-28"><a href="#cb8-28" aria-hidden="true" tabindex="-1"></a>zipcodes_new <span class="ot">&lt;-</span> <span class="fu">left_join</span>(zipcodes19, tk_zipdata, <span class="at">by =</span> <span class="fu">c</span>(<span class="st">&quot;posti_alue&quot;</span> <span class="ot">=</span> <span class="st">&quot;zipcode&quot;</span>))</span>
+<span id="cb8-29"><a href="#cb8-29" aria-hidden="true" tabindex="-1"></a><span class="fu">ggplot</span>(zipcodes_new) <span class="sc">+</span> </span>
+<span id="cb8-30"><a href="#cb8-30" aria-hidden="true" tabindex="-1"></a>  <span class="fu">geom_sf</span>(<span class="fu">aes</span>(<span class="at">fill =</span> pinta_ala), <span class="at">color =</span> <span class="fu">alpha</span>(<span class="st">&quot;white&quot;</span>, <span class="dv">1</span><span class="sc">/</span><span class="dv">3</span>))</span></code></pre></div>
 <p><img src="{{< blogdown/postref >}}index.fi_files/figure-html/zipcode_with_statistics_finland-1.png" width="900" /></p>
 </div>
 </div>

diff --git a/content/post/2020-10-29-hetu.en/index.html b/content/post/2020-10-29-hetu.en/index.html
@@ -1,10 +1,10 @@
 ---
 title: Hetu-package for handling of Finnish personal identity codes
-author: Pyry Kantanen
+author: "Pyry Kantanen"
 date: 2020-10-29
 slug: "hetu"
 categories:
-  - R package
+  - R-package
   - R
 tags:
   - R-bloggers
@@ -178,15 +178,15 @@ code span.wa { color: #8f5902; font-weight: bold; font-style: italic; } /* Warni
 <span id="cb18-2"><a href="#cb18-2" aria-hidden="true" tabindex="-1"></a><span class="co"># Age in years</span></span>
 <span id="cb18-3"><a href="#cb18-3" aria-hidden="true" tabindex="-1"></a><span class="fu">hetu_age</span>(example_pins2)</span></code></pre></div>
 <pre><code>## The age in years has been calculated at 2021-01-29.</code></pre>
-<pre><code>## [1] 58 60 57 63 54</code></pre>
+<pre><code>## [1] 69 64 63 60 40</code></pre>
 <div class="sourceCode" id="cb21"><pre class="sourceCode r"><code class="sourceCode r"><span id="cb21-1"><a href="#cb21-1" aria-hidden="true" tabindex="-1"></a><span class="co"># Age in months</span></span>
 <span id="cb21-2"><a href="#cb21-2" aria-hidden="true" tabindex="-1"></a><span class="fu">hetu_age</span>(example_pins2, <span class="at">timespan =</span> <span class="st">&quot;months&quot;</span>)</span></code></pre></div>
 <pre><code>## The age in months has been calculated at 2021-01-29.</code></pre>
-<pre><code>## [1] 696 722 688 757 654</code></pre>
+<pre><code>## [1] 831 770 761 723 491</code></pre>
 <div class="sourceCode" id="cb24"><pre class="sourceCode r"><code class="sourceCode r"><span id="cb24-1"><a href="#cb24-1" aria-hidden="true" tabindex="-1"></a><span class="co"># Age in 2011</span></span>
 <span id="cb24-2"><a href="#cb24-2" aria-hidden="true" tabindex="-1"></a><span class="fu">hetu_age</span>(example_pins2, <span class="at">date =</span> <span class="st">&quot;2011-01-01&quot;</span>)</span></code></pre></div>
 <pre><code>## The age in years has been calculated at 2011-01-01.</code></pre>
-<pre><code>## [1] 47 50 47 53 44</code></pre>
+<pre><code>## [1] 59 54 53 50 30</code></pre>
 <div class="sourceCode" id="cb27"><pre class="sourceCode r"><code class="sourceCode r"><span id="cb27-1"><a href="#cb27-1" aria-hidden="true" tabindex="-1"></a><span class="co"># Visualization: boxplot grouped by sex</span></span>
 <span id="cb27-2"><a href="#cb27-2" aria-hidden="true" tabindex="-1"></a>example_pins3 <span class="ot">&lt;-</span> <span class="fu">rhetu</span>(<span class="dv">20</span>, <span class="at">start =</span> <span class="st">&quot;1950-01-01&quot;</span>, <span class="at">end =</span> <span class="st">&quot;1995-05-07&quot;</span>, <span class="at">p.male =</span> <span class="fl">0.5</span>)</span>
 <span id="cb27-3"><a href="#cb27-3" aria-hidden="true" tabindex="-1"></a><span class="fu">boxplot</span>(<span class="fu">hetu_age</span>(example_pins3)<span class="sc">~</span><span class="fu">hetu_sex</span>(example_pins3), <span class="at">xlab =</span> <span class="st">&quot;&quot;</span>, <span class="at">ylab =</span> <span class="st">&quot;Age in years&quot;</span>, <span class="at">col=</span><span class="fu">c</span>(<span class="st">&quot;cyan&quot;</span>, <span class="st">&quot;magenta&quot;</span>))</span></code></pre></div>
@@ -213,7 +213,7 @@ code span.wa { color: #8f5902; font-weight: bold; font-style: italic; } /* Warni
 </ul>
 <div class="sourceCode" id="cb33"><pre class="sourceCode r"><code class="sourceCode r"><span id="cb33-1"><a href="#cb33-1" aria-hidden="true" tabindex="-1"></a>example_bids <span class="ot">&lt;-</span> <span class="fu">rbid</span>(<span class="dv">2</span>)</span>
 <span id="cb33-2"><a href="#cb33-2" aria-hidden="true" tabindex="-1"></a>example_bids</span></code></pre></div>
-<pre><code>## [1] &quot;9802897-5&quot; &quot;0520734-2&quot;</code></pre>
+<pre><code>## [1] &quot;6929921-5&quot; &quot;8904621-5&quot;</code></pre>
 <div class="sourceCode" id="cb35"><pre class="sourceCode r"><code class="sourceCode r"><span id="cb35-1"><a href="#cb35-1" aria-hidden="true" tabindex="-1"></a><span class="fu">bid_ctrl</span>(example_bids)</span></code></pre></div>
 <pre><code>## [1] TRUE TRUE</code></pre>
 <p>No additional information can be extracted from BIDs.</p>

diff --git a/content/post/2018-12-05-FOI/index.html b/content/post/2018-12-05-FOI/index.html
@@ -1,7 +1,7 @@
 ---
 slug: "cost_of_academic_publishing_in_finland_2010_2017"
 title: "Cost of academic publishing in Finland 2010-2017"
-author: Leo Lahti
+author: "Leo Lahti"
 date: "2018-12-05"
 categories: 
   - R
